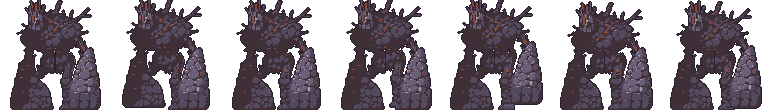
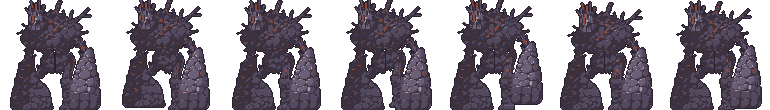
Lanternhold actors art 3: the gloomweaver redrawn tall and flowing (a pointed hood curling forward over the void with its violet eyes, a sleeve reaching to the orb, the robe trailing off into long smoke ribbons; the orb's spark off-centre so it reads as a sphere, not an eye); the ash giant's flat da

diff --git a/games/lanternhold/tools/actorart.py b/games/lanternhold/tools/actorart.py
@@ -11,6 +11,9 @@ Pure python 3 (pixelart.py's PNG and palette helpers); one sprite per run, each 
         every light (body at 0.12 plus the glow strip, as the engine draws an unlit creature) and night in firelight.
   actorart.py dump <in.png> <out.txt> [--box x0,y0,x1,y1]
         A palette PNG as a text grid with a generated legend (to start hand edits on a converted painting).
+  actorart.py texture <in.png> <out.png> --colour NAME --to NAME --light NAME [--cell 5] [--seed 1] [--rect x0,y0,x1,y1]
+        Breaks flat areas of one colour into a seeded cobble of boulders (Voronoi cells: crevices keep the colour,
+        cell interiors take --to, their upper-left rim --light), so a dark band of a converted painting gets form.
 
 Spec format (`tools/grids/actors/<id>.txt`). Directives start in column 0; their content lines are indented.
     id NAME                  output sprite id (the glow strip is NAMEGlow)
@@ -499,6 +502,46 @@ def cmd_dump(a):
     print(f"wrote {a.output} ({x1 - x0}x{y1 - y0}, {len(names)} colours)")
 
 
+def cmd_texture(a):
+    pal = Palette(a.palette, True)
+    img, _ = read_png(a.input)
+    src, mid, light = pal.color(a.colour), pal.color(a.to), pal.color(a.light)
+    cell = a.cell
+    x0, y0, x1, y1 = (int(v) for v in a.rect.split(",")) if a.rect else (0, 0, img.w - 1, img.h - 1)
+
+    def rnd(i, j, k):
+        v = (i * 73856093) ^ (j * 19349663) ^ (k * 83492791) ^ (a.seed * 2654435761)
+        v = (v ^ (v >> 13)) * 1274126177 & 0xFFFFFFFF
+        return ((v ^ (v >> 16)) & 0xFFFF) / 65535.0
+
+    seeds = {}
+    for j in range(-1, img.h // cell + 2):
+        for i in range(-1, img.w // cell + 2):
+            seeds[(i, j)] = (i * cell + rnd(i, j, 1) * cell, j * cell + rnd(i, j, 2) * cell)
+    out = Image(img.w, img.h, list(img.px))
+    for y in range(max(0, y0), min(img.h, y1 + 1)):
+        for x in range(max(0, x0), min(img.w, x1 + 1)):
+            p = img.get(x, y)
+            if not p[3] or p[:3] != src:
+                continue
+            ci, cj = int(x // cell), int(y // cell)
+            best = []
+            for j in range(cj - 1, cj + 2):
+                for i in range(ci - 1, ci + 2):
+                    sx, sy = seeds[(i, j)]
+                    best.append(((x + 0.5 - sx) ** 2 + (y + 0.5 - sy) ** 2, sx, sy))
+            best.sort()
+            d1, sx, sy = best[0]
+            d2 = best[1][0]
+            if math.sqrt(d2) - math.sqrt(d1) < 1.1:
+                continue  # crevice
+            dx, dy = x + 0.5 - sx, y + 0.5 - sy
+            c = light if (dx + dy < -cell * 0.45) else mid
+            out.set(x, y, c + (255,))
+    write_png(a.output, out)
+    print(f"wrote {a.output} (texture {a.colour} -> {a.to}/{a.light}, cell {cell})")
+
+
 def main():
     p = argparse.ArgumentParser(description=__doc__, formatter_class=argparse.RawDescriptionHelpFormatter)
     sub = p.add_subparsers(dest="cmd", required=True)
@@ -520,6 +563,17 @@ def main():
     d.add_argument("--box")
     d.add_argument("--palette", default=DEFAULT_PALETTE)
     d.set_defaults(fn=cmd_dump)
+    t = sub.add_parser("texture")
+    t.add_argument("input")
+    t.add_argument("output")
+    t.add_argument("--colour", required=True)
+    t.add_argument("--to", required=True)
+    t.add_argument("--light", required=True)
+    t.add_argument("--cell", type=int, default=5)
+    t.add_argument("--seed", type=int, default=1)
+    t.add_argument("--rect")
+    t.add_argument("--palette", default=DEFAULT_PALETTE)
+    t.set_defaults(fn=cmd_texture)
     a = p.parse_args()
     a.fn(a)
 
